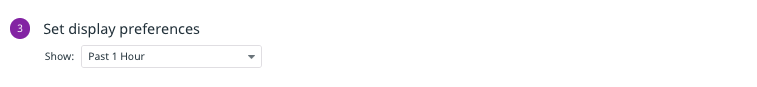
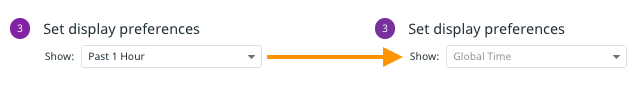
😾

diff --git a/datadog-201/0-instrument-app/assets/postlogs.py b/datadog-201/0-instrument-app/assets/postlogs.py
@@ -34,7 +34,7 @@ def post_log():
       'ddsource': 'python',
       'ddtags': 'env:dd201, team:frontend',
       'hostname': 'host01',
-      'message': '{"event":"add_to_cart","item":' + json.dumps(random.choice(items)) + '}',
+      'message': '{"event":"item_sold","item":' + json.dumps(random.choice(items)) + '}',
       'service': 'store-cartlogger'
     }
     r=requests.post(url, data=json.dumps(payload), headers=headers)

diff --git a/datadog-201/1-exec-dash/2-template-variables-global-time.md b/datadog-201/1-exec-dash/2-template-variables-global-time.md
@@ -13,7 +13,7 @@ For **Tag or Attribute**, start typing "env" and then select **env** from the fi
 
 Click the **Done** button.
 
-Now you can set the dashboard view to either `*`, which will display metrics tagged with *any* `env` value, or `dd201`, which will display metrics tagged *onl* with the `env:dd201`. This is useful if you have used this account for other Learning Center labs with different `env` tag values. A real world use for this variable could be to switch between values tagged with `env:production`, `env:staging`, or `env:development`.
+Now you can set the dashboard view to either `*`, which will display metrics tagged with *any* `env` value, or `dd201`, which will display metrics tagged *only* with the `env:dd201`. This is useful if you have used this account for other Learning Center labs with different `env` tag values. A real world use for this variable could be to switch among values tagged with `env:production`, `env:staging`, or `env:development`.
 
 Next, update the **Performance overview of most popular pages** widget to use only the `$env` template var: ![Use only env in the page performance widget](./assets/performance_page_env_only.png)
 
@@ -36,4 +36,4 @@ There are situations where this may be desirable, but the CEO wants all of the w
 
 Now when you select a time frame in the global time selector, all of the widgets will display data from that time period.
 
-You have copied all of the useful preset widgets for the executive dashboard and synchronized them to the same environment and time period. Click the **Continue** button below to create a custom revenue metric from log lines.
+You have copied all of the useful preset widgets for the executive dashboard and synchronized them to the same environment and time period. You can now move on to creating the remaining custom widgets. Click the **Continue** button below to create a custom revenue metric and widget.

diff --git a/datadog-201/1-exec-dash/3-custom-metric.md b/datadog-201/1-exec-dash/3-custom-metric.md
@@ -1,4 +1,21 @@
-#### Create your revenue metric
+When a customer completes a purchase on Storedog a service called store-cartlogger uses the Datadog API to create a JSON log entry for each item purchased. Here's a formatted example:
+
+```json
+{
+    "event" : "item_sold",
+    "hostname" : "host01",
+    "item" : {	
+        "cost" : 2.15,
+        "id" : "datadog-mug",
+        "name" : "Datadog Mug",
+        "price" : 13.99
+    },
+    "service" : "store-cartlogger"
+}
+```
+
+These log lines contain the amount Storedog paid for the item as `cost`, and the amount Storedog's customer paid for the item as `price`. You can determine the revenue generated by the sale of the item by calculating the difference between these values.
+
 Start by navigating to [Logs Explorer](https://app.datadoghq.com/logs) and searching for `service:store-cartlogger`{{copy}}
 
 Once you’re confident this is the data that will allow you to track revenue, you’re going to want to store that metric over time.
